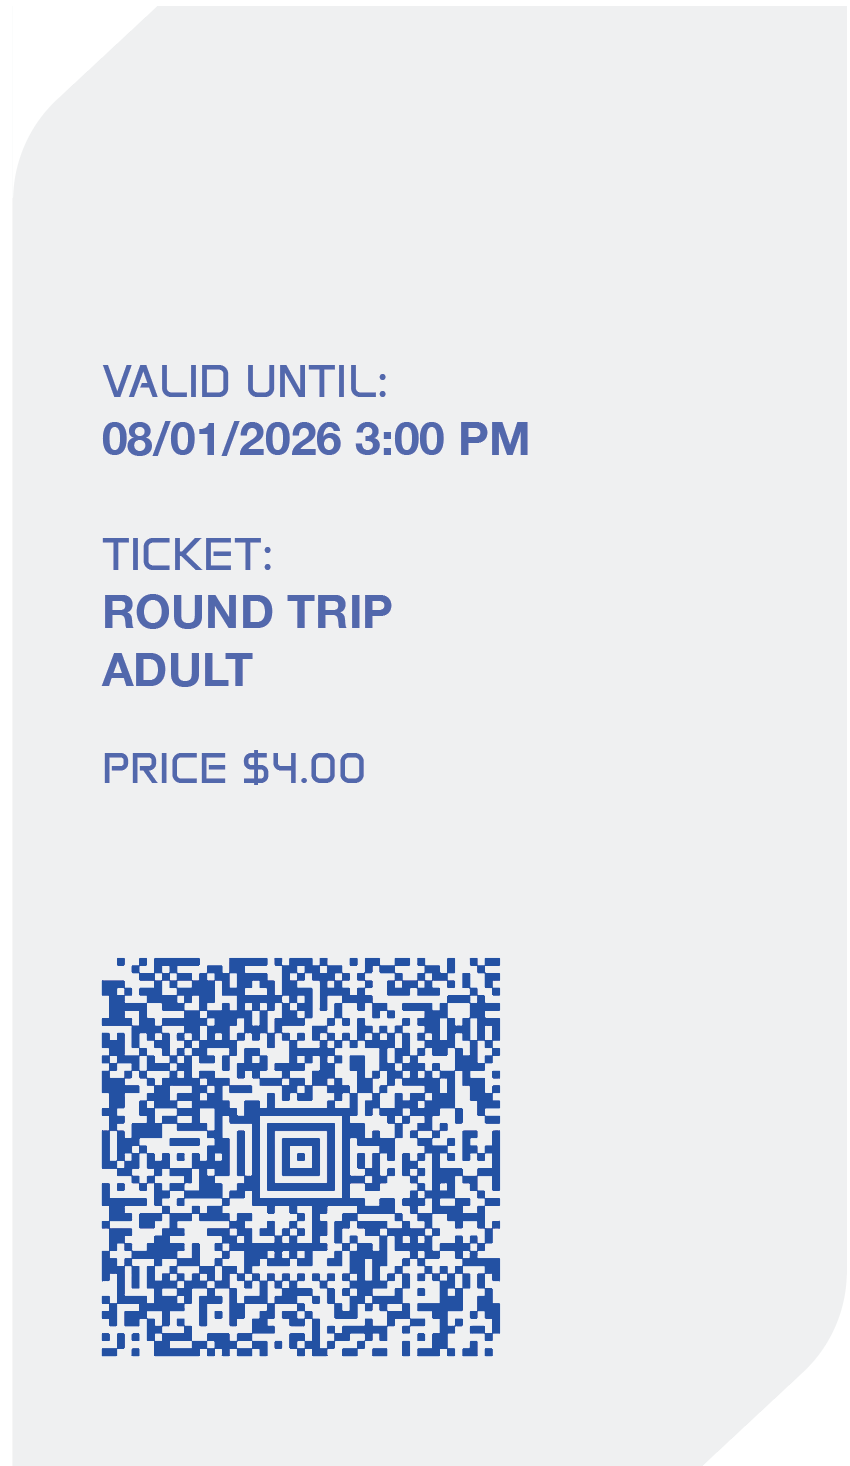
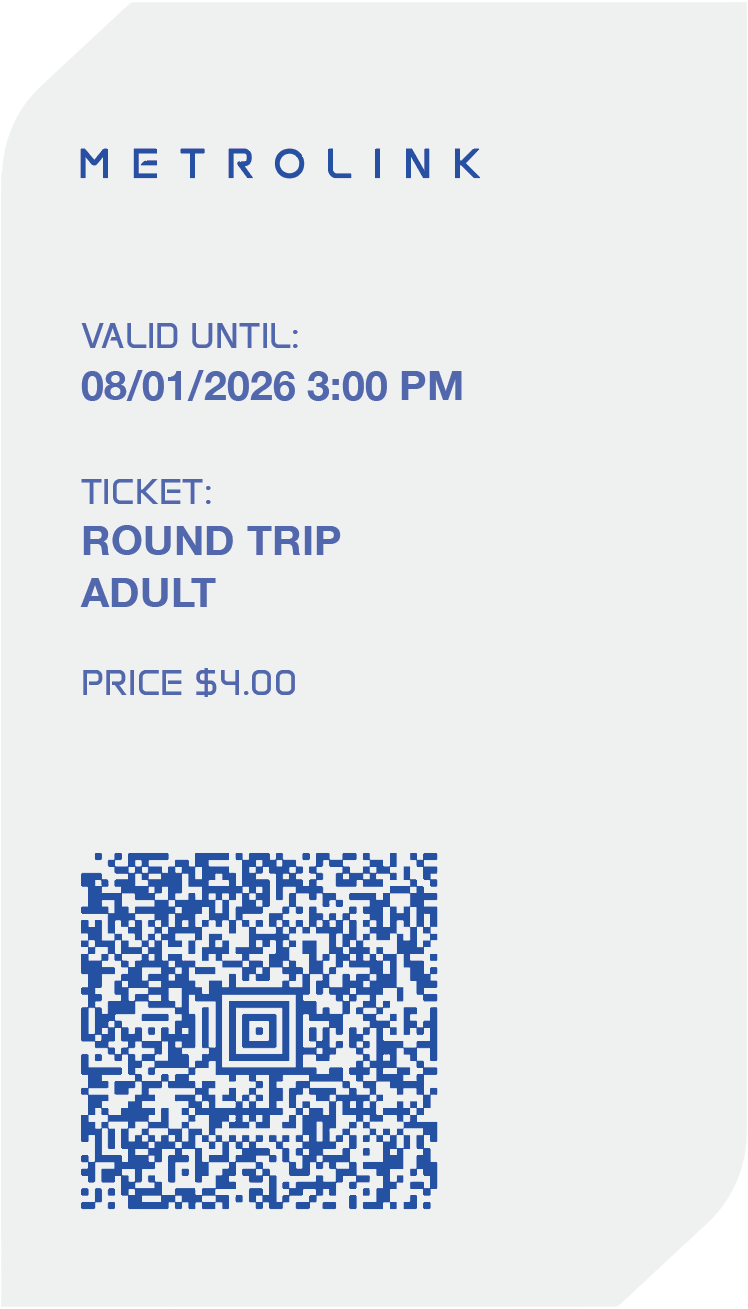
New ticket art, LA map view, larger A584 pin, black bezel
- Ticket: replace with the new ticket art (Figma 4899:2261), cropped to the
  card, wordmark kept; Wallet ticket drops the rounded outline so the art's
  cut corners show; price patch realigned
- Home map: To = L.A. Union Station pans/zooms to Los Angeles at the same
  scale as the Anaheim view, so Anaheim -> Union Station is a smooth pan
- Home map: full-size orange A584 pin over the small one at Union Station,
  moving and scaling with the map like the green pin
- Phone bezel is pure black to match the notch
- Style guide and README updated

diff --git a/src/styles.css b/src/styles.css
@@ -26,7 +26,7 @@ body { background: #E6E8EB; color: #1d1f22; font: 13px/1.45 system-ui, -apple-sy
 }
 
 /* ---------- Device ---------- */
-.device { position: relative; width: 402px; height: 874px; overflow: hidden; background: var(--color-neutral-1o); border-radius: 48px; box-shadow: 0 0 0 10px #1d1f22, 0 30px 60px rgba(0,0,0,.25); transform: scale(var(--scale)); transform-origin: 0 0; font: var(--type-body-m); letter-spacing: var(--type-body-m-tracking); color: var(--color-neutral-10o); }
+.device { position: relative; width: 402px; height: 874px; overflow: hidden; background: var(--color-neutral-1o); border-radius: 48px; box-shadow: 0 0 0 10px #000, 0 30px 60px rgba(0,0,0,.25); transform: scale(var(--scale)); transform-origin: 0 0; font: var(--type-body-m); letter-spacing: var(--type-body-m-tracking); color: var(--color-neutral-10o); }
 .device__scroll { position: absolute; inset: 0; overflow-x: hidden; overflow-y: auto; scrollbar-width: none; }
 .device__scroll::-webkit-scrollbar { display: none; }
 .screen-enter { animation: screen-in var(--motion-base) var(--ease-base); }
@@ -112,6 +112,15 @@ body { background: #E6E8EB; color: #1d1f22; font: 13px/1.45 system-ui, -apple-sy
 .home-map__pin::after { content: ''; position: absolute; inset: -50px; }
 .home-map.is-zoomed .home-map__pin { transform: none; }
 .home-map.is-zoomed .home-map__pin::after { inset: -6px; }
+/* LA view: same scale as the Anaheim zoom, panned so Union Station sits at the map's centre (201, 200).
+   The A584 pin is shifted by the same amount so it stays on its spot near Anaheim. */
+.home-map.is-la .home-map__img { transform: translate(-638.3px, -245.3px) scale(2.5634); }
+.home-map.is-la .home-map__pin { transform: translate(64.45px, 130.19px); }
+/* Second A584 pin (orange outline) over the small one printed in the map at Union Station.
+   Its box sits where it rests in the LA view; the other views move and scale it like the green pin. */
+.home-map__pin.home-map__pin--la { left: 180.85px; top: 139.54px; pointer-events: none; transform: translate(39.16px, -26.3px) scale(.2821); }
+.home-map.is-zoomed .home-map__pin--la { transform: translate(-64.35px, -130.34px); }
+.home-map.is-la .home-map__pin--la { transform: none; }
 .home-map__pin img { width: 100%; height: 100%; }
 .home-map__pin span { position: absolute; left: 5.43px; top: 14.73px; font: 10.851px/15.5px 'Anta', sans-serif; letter-spacing: -.065px; color: var(--color-neutral-1o); }
 .home-panel { position: relative; height: 858px; background: var(--color-neutral-1o); z-index: 1; }
@@ -139,11 +148,12 @@ body { background: #E6E8EB; color: #1d1f22; font: 13px/1.45 system-ui, -apple-sy
 .success { position: absolute; text-align: center; font: var(--type-paragraph); font-family: 'Anta', sans-serif; letter-spacing: -.096px; color: #000; }
 .success h2 { margin-bottom: 24px; font-weight: 400; }
 
-.ticket { position: absolute; width: 216px; height: 378px; border: .5px solid var(--color-border-ticket); border-radius: var(--radius-ticket) 0 var(--radius-ticket) 0; overflow: hidden; }
-.ticket img { position: absolute; left: -1.39%; top: -.32%; width: 101.85%; height: 100.38%; }
-.ticket__price { position: absolute; left: 57.5px; top: 187.5px; width: 40px; height: 18px; padding-left: 2px; background: var(--color-neutral-4o); color: var(--color-text-ticket); font: 11px/18px 'Anta', sans-serif; letter-spacing: -.066px; white-space: nowrap; }
+/* The ticket art carries its own cut-corner shape (transparent outside the card), so the box adds no outline or rounding. */
+.ticket { position: absolute; width: 216px; height: 378px; overflow: hidden; }
+.ticket img { position: absolute; left: 0; top: 0; width: 100%; height: 100%; }
+.ticket__price { position: absolute; left: 53.9px; top: 187.5px; width: 40px; height: 18px; padding-left: 2px; background: var(--color-neutral-4o); color: var(--color-text-ticket); font: 11px/18px 'Anta', sans-serif; letter-spacing: -.066px; white-space: nowrap; }
 .ticket--lg { left: 57.62px; top: 61.92px; width: 406.38px; height: 711.16px; border: 0; border-radius: 119.11px 0 119.11px 0; }
-.ticket__price--lg { left: 109.12px; top: 353.7px; width: 75.26px; height: 33.87px; padding-left: 3.8px; font-size: 20.47px; line-height: 33.87px; letter-spacing: -.12px; }
+.ticket__price--lg { left: 102.5px; top: 353.7px; width: 75.26px; height: 33.87px; padding-left: 3.8px; font-size: 20.47px; line-height: 33.87px; letter-spacing: -.12px; }
 .ticket-detail__mask { position: absolute; background: var(--color-neutral-4o); pointer-events: none; }
 
 .applepay { width: 402px; padding: 0; text-align: initial; }

diff --git a/src/styleguide.js b/src/styleguide.js
@@ -194,7 +194,7 @@ function Components() {
 const ASSETS = {
   Navigation: ['nav/home.svg', 'nav/tickets.svg', 'nav/schedules.svg', 'nav/map.svg', 'nav/explore.svg', 'nav/indicator.svg'],
   Common: ['common/status-bar.svg', 'common/chevron-down.svg', 'common/chevron-down-alt.svg', 'common/arrow-down.svg', 'common/close.svg', 'common/info.svg', 'common/radio-off.svg', 'common/radio-on.svg', 'common/line-orange.svg', 'common/line-green.svg', 'common/line-purple.svg', 'common/line-blue.svg'],
-  'Home & Map': ['home/schedules-title.svg', 'home/pin-a584.svg', 'home/pin-a584-large.svg', 'map/pin.svg', 'map/pin-zoom-b.svg', 'home/map.png'],
+  'Home & Map': ['home/schedules-title.svg', 'home/pin-a584.svg', 'home/pin-a584-large.svg', 'home/pin-a584-la.svg', 'map/pin.svg', 'map/pin-zoom-b.svg', 'home/map.png'],
   Tickets: ['tickets/visa.svg', 'tickets/mastercard.svg', 'tickets/paypal.svg', 'tickets/applepay-mark.svg', 'tickets/ticket.png', 'tickets/applepay-sheet.png'],
   'Schedules & Explore': ['schedules/schedules-title.svg', 'schedules/line-orange-sm.svg', 'schedules/arrow-right.svg', 'explore/carousel-arrows.svg', 'explore/den-1.png', 'explore/muse-1.png'],
 };
@@ -208,7 +208,7 @@ const Assets = () => html`
 
 // What each screen links to: Figma links you made, plus gaps filled in code (marked "added").
 const FLOWS = [
-  ['home', 'Train pin → map zooms to A584 and From = Anaheim (Smart Animate)', 'Pick Anaheim as From or To → map zooms to A584; another station zooms back out', 'Info → Why no date picker', 'Buy Tickets (From, To, Type set) → Choose fare', 'Service Alerts → Service Alerts'],
+  ['home', 'Train pin → map zooms to A584 and From = Anaheim (Smart Animate)', 'Pick Anaheim as From or To → map zooms to A584; another station zooms back out', 'Pick L.A. Union Station as To → map pans/zooms to Los Angeles (same zoom as Anaheim, so it is a smooth pan)', 'Info → Why no date picker', 'Buy Tickets (From, To, Type set) → Choose fare', 'Service Alerts → Service Alerts'],
   ['explanation', 'X → back to the previous screen (added: Figma always went Home)'],
   ['alerts', 'X → back'],
   ['tickets', 'Ticket Wallet → Ticket Wallet', 'Mon-Fri / Sat / Sun radios', 'Buy Tickets → Choose fare'],
@@ -247,7 +247,7 @@ const AUDIT = [
   ['Schedule times', 'Results show "12:20 AM" and "1:36 AM" after 11:36 AM; probably meant PM. Kept as drawn in data.js.'],
   ['Static Apple Pay sheet', 'The sheet is a screenshot, so it always shows $10.00 even for a $5 fare. The ticket price patch in the wallet does update.'],
   ['Unused frames', '"Home Page_OC Line" (4683:7281) is hidden and "Explore_1" (4683:6630) has no links into it. Neither is in the prototype.'],
-  ['Logos removed', 'The Metrolink logo is gone from all 24 screens, the Apple Pay merchant tile and the ticket wordmark (Oct 28, 2026). On the ticket, the wordmark is baked into the image, so Figma has a Neutral/4O "Wordmark cover" rectangle over it; the code uses an edited ticket.png. Payment marks (Visa, Mastercard, PayPal, Apple Pay) are kept.'],
+  ['Logos removed', 'The Metrolink logo is gone from all 24 screens and the Apple Pay merchant tile (Oct 28, 2026). The METROLINK wordmark on the ticket art (Figma 4899:2261) is kept on purpose. Payment marks (Visa, Mastercard, PayPal, Apple Pay) are kept.'],
   ['Timed auto-advance', 'Figma auto-filled forms after 5.6–7s delays (Tickets, Schedules, Home zoom). The code uses real dropdowns instead.'],
 ];
 

diff --git a/src/screens/home.js b/src/screens/home.js
@@ -19,24 +19,33 @@ export function TripForm({ y, withType = true, cta = 'Buy Tickets', onSubmit, ga
 }
 
 // Figma: Home Page (4683:6974) → 0.1-h-z1.1 (7068, map zoomed on train A584) → 7178 (form filled).
-// Picking Anaheim (A584's next stop) as From or To zooms the map onto the train; another station zooms back out.
+// The map follows the form: To = L.A. Union Station zooms onto Los Angeles; Anaheim (A584's next stop)
+// as From or To zooms onto the train; anything else zooms back out. Anaheim ↔ LA share one zoom level,
+// so switching between them is a straight pan.
+const mapViewFor = trip => (trip.to === 'L.A. Union Station' ? 'la'
+  : trip.from === 'Anaheim' || trip.to === 'Anaheim' ? 'anaheim' : null);
+
 export function Home() {
   const { go, trip, update } = useApp();
-  const atAnaheim = trip.from === 'Anaheim' || trip.to === 'Anaheim';
-  const [zoomed, setZoomed] = useState(atAnaheim);
-  useEffect(() => setZoomed(atAnaheim), [atAnaheim]);
+  const target = mapViewFor(trip);
+  const [view, setView] = useState(target);
+  useEffect(() => setView(target), [target]);
   const toggleTrain = () => {
-    setZoomed(z => !z);
-    if (!zoomed && !trip.from) update({ from: 'Anaheim' }); // Figma 7068 pre-selects the train's next stop
+    setView(v => (v ? null : 'anaheim'));
+    if (!view && !trip.from) update({ from: 'Anaheim' }); // Figma 7068 pre-selects the train's next stop
   };
   return html`
     <div class="screen" style=${{ height: 1253 }}>
-      <div class=${cx('home-map', zoomed && 'is-zoomed')}>
+      <div class=${cx('home-map', view && 'is-zoomed', view === 'la' && 'is-la')}>
         <img class="home-map__img" src=${asset('home/map.png')} alt="Metrolink system map" />
         <button class="home-map__pin" onClick=${toggleTrain} aria-label="Train A584">
           <img src=${asset('home/pin-a584-large.svg')} alt="" />
           <span>A584</span>
         </button>
+        <span class="home-map__pin home-map__pin--la" aria-hidden="true">
+          <img src=${asset('home/pin-a584-la.svg')} alt="" />
+          <span>A584</span>
+        </span>
       </div>
 
       <div class="home-panel">

diff --git a/src/tokens.js b/src/tokens.js
@@ -37,7 +37,7 @@ export const color = {
   },
   border: {
     grey: { value: '#D9D9D9', figma: 'Grey', usage: 'Payment method tile border' },
-    ticket: { value: '#B8B8B8', figma: 'Border/Ticket', local: true, usage: 'Ticket card outline' },
+    ticket: { value: '#B8B8B8', figma: 'Border/Ticket', local: true, usage: 'Old ticket outline (unused since the new ticket art)' },
   },
   ui: {
     homeIndicator: { value: '#B9C0C9', figma: 'UI/Home Indicator', local: true, usage: 'iOS home indicator bar' },
@@ -75,7 +75,7 @@ export const radius = {
   sm: { value: 6, usage: 'Buttons, status cards, payment tiles' },
   md: { value: 8, usage: 'Listbox, dropdown, Apple Pay button' },
   lg: { value: 24, usage: 'Bottom nav' },
-  ticket: { value: 64, usage: 'Ticket card (top-left + bottom-right only)' },
+  ticket: { value: 64, usage: 'Old ticket card corners (unused since the new ticket art)' },
   pill: { value: 100, usage: 'Home indicator' },
 };
 

diff --git a/README.md b/README.md
@@ -47,7 +47,7 @@ The prototype follows your Figma links. Where Figma had gaps, these were filled 
 
 - Dropdowns are real: pick any station or ticket type. Buy Tickets / Get Schedule enable once the form is complete.
   Figma's timed auto-fills (5.6–7 s delays) are replaced by this.
-- On Home, picking Anaheim (From or To) zooms the map onto train A584; picking another station zooms back out.
+- On Home, picking Anaheim (From or To) zooms the map onto train A584; picking L.A. Union Station as To pans it to Los Angeles; any other station zooms back out.
 - Every fare row is tappable, and the chosen price carries through to Payment and the ticket.
 - Close (X) returns to the previous screen instead of always going Home.
 - Payment method tiles are selectable.
